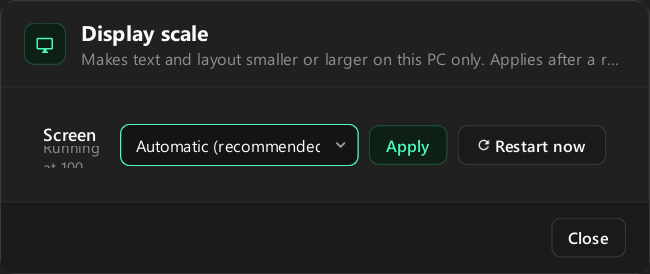
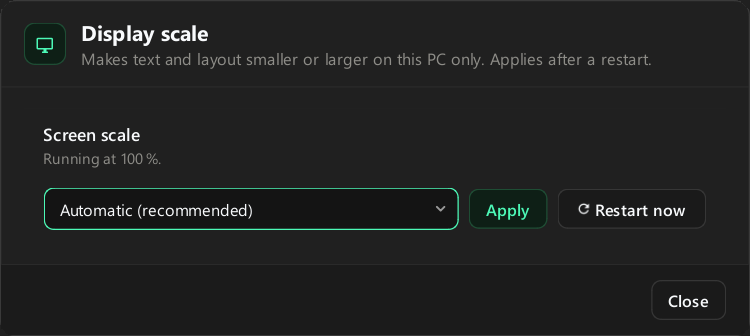
ui-overhaul F-R: merge-readiness report, ARN fixer switch in Settings, display scale clipping fix

diff --git a/ui/dialogs/unified_settings_dialog.py b/ui/dialogs/unified_settings_dialog.py
@@ -97,7 +97,8 @@ _STATE_COMBOS = {"theme": "theme_combo", "window_mode": "window_mode_combo", "ma
 _STATE_STEPPERS = {"reveal_count": "reveal_count_spin", "clipboard": "clipboard_spin",
                    "sca_max_uses": "sca_max_uses_spin"}
 _STATE_CHECKS = {"quick_copy": "quick_copy_check", "run_in_bg": "run_in_bg_check",
-                 "autostart": "autostart_check", "sca": "sca_check", "show_hide": "show_hide_check",
+                 "autostart": "autostart_check", "arn_autofix": "arn_autofix_check",
+                 "sca": "sca_check", "show_hide": "show_hide_check",
                  "scc_enabled": "scc_check", "vsdc_enabled": "vsdc_check", "vsdc_x_enabled": "vsdc_x_check",
                  "vsdc247_enabled": "vsdc247_check", "vsdc_hud_enabled": "vsdc_hud_check",
                  "sgt_record_pages": "sgt_record_check", "sdis_record": "sdis_record_check"}
@@ -445,6 +446,12 @@ class UnifiedSettingsDialog(QDialog):
         startup.add_row(SettingRow("Launch at Windows startup",
                                    "Automatically starts Project Sera in the background when Windows boots.",
                                    self.autostart_check))
+        self.arn_autofix_check = Switch()
+        self.arn_autofix_check.setAccessibleName("Run the ARN fixer automatically")
+        startup.add_row(SettingRow("Run the ARN fixer automatically",
+                                   "Fixes failed ARN-only GST rows from the corpus in the background, on the admin PC "
+                                   "only. Applies from the next start of Sera.",
+                                   self.arn_autofix_check))
 
         assist = Card("Clipboard assist (SCA)")
         self.sca_check = Switch()
@@ -477,7 +484,8 @@ class UnifiedSettingsDialog(QDialog):
             combo.currentIndexChanged.connect(self._on_control_changed)
         for stepper in (self.reveal_count_spin, self.clipboard_spin, self.sca_max_uses_spin):
             stepper.valueChanged.connect(self._on_control_changed)
-        for switch in (self.quick_copy_check, self.run_in_bg_check, self.autostart_check, self.sca_check):
+        for switch in (self.quick_copy_check, self.run_in_bg_check, self.autostart_check, self.arn_autofix_check,
+                       self.sca_check):
             switch.toggled.connect(self._on_control_changed)
         self.mask_mode_combo.currentIndexChanged.connect(self._update_mask_preview)
         self.reveal_count_spin.valueChanged.connect(self._update_mask_preview)
@@ -980,6 +988,7 @@ class UnifiedSettingsDialog(QDialog):
             state["quick_copy"] = self.quick_copy_check.isChecked()
             state["run_in_bg"] = self.run_in_bg_check.isChecked()
             state["autostart"] = self.autostart_check.isChecked()
+            state["arn_autofix"] = self.arn_autofix_check.isChecked()
             state["sca"] = self.sca_check.isChecked()
             state["sca_mode"] = self.sca_mode_combo.currentData()
             state["sca_max_uses"] = self.sca_max_uses_spin.value()
@@ -1164,6 +1173,7 @@ class UnifiedSettingsDialog(QDialog):
             self.quick_copy_check.setChecked(g("quick_copy_enabled", "0") == "1")
             self.run_in_bg_check.setChecked(g("run_in_background", "1") == "1")
             self.sca_check.setChecked(g("sca_enabled", "1") == "1")
+            self.arn_autofix_check.setChecked(g("arn_autofix_enabled", "1") != "0")
             try:
                 self.sca_max_uses_spin.setValue(max(1, min(int(g("sca_max_uses", "1")), 20)))
             except (TypeError, ValueError):
@@ -1230,6 +1240,7 @@ class UnifiedSettingsDialog(QDialog):
                 bulk_settings["quick_copy_enabled"]         = b(self.quick_copy_check)
                 bulk_settings["run_in_background"]          = b(self.run_in_bg_check)
                 bulk_settings["sca_enabled"]                = b(self.sca_check)
+                bulk_settings["arn_autofix_enabled"]        = b(self.arn_autofix_check)
                 bulk_settings["sca_action_mode"]            = self.sca_mode_combo.currentData() or "autofill"
                 bulk_settings["sca_max_uses"]               = str(self.sca_max_uses_spin.value())
 

diff --git a/tests/test_ui_lock_settings.py b/tests/test_ui_lock_settings.py
@@ -95,6 +95,19 @@ def test_fixed_sequence_of_inputs_writes_exactly_the_golden_settings(env):
     assert not dlg._btn_save.isEnabled()                               # saved = no longer dirty
 
 
+def test_arn_fixer_switch_reads_and_writes_its_key(env):
+    """main's ARN fixer switch (legacy settings_dialog.py) lives on General > Start-up here."""
+    db, ids, dlg, written, outside = env
+    assert dlg.arn_autofix_check.isChecked()                       # default on, as core/sdis/arn_autofix.py
+    dlg.arn_autofix_check.setChecked(False)
+    assert dlg._btn_save.isEnabled()
+    dlg._on_save_settings()
+    assert db.get_setting("arn_autofix_enabled") == "0"
+    dlg.arn_autofix_check.setChecked(True)
+    dlg._load_settings(force=True)
+    assert not dlg.arn_autofix_check.isChecked()
+
+
 def test_save_also_tells_the_extension_and_the_startup_entry(env):
     db, ids, dlg, written, outside = env
     _apply_fixed_inputs(dlg)

diff --git a/ui/utils/dynamic_form_widgets.py b/ui/utils/dynamic_form_widgets.py
@@ -6,6 +6,7 @@ Shared UI pieces for rendering dynamic fields at runtime.
 
 from PySide6.QtCore import QDate, QRegularExpression, Qt
 from PySide6.QtGui import QRegularExpressionValidator
+from ui.utils.tokens import TOKENS
 from PySide6.QtWidgets import (
     QComboBox,
     QDateEdit,
@@ -51,7 +52,8 @@ def make_input_widget(field: dict, value: str = "", mask_password: bool = True):
         widget = QLineEdit(value or "(Auto-Generated)")
         widget.setReadOnly(True)
         widget.setFocusPolicy(Qt.NoFocus)
-        widget.setStyleSheet("background-color: #EFEFEF; color: #2E9B5F; font-weight: 700; border: 1px solid #CCCCCC;")
+        widget.setStyleSheet(f"background-color: {TOKENS['panel']}; color: {TOKENS['mint']}; font-weight: 700;"
+                             f" border: 1px solid {TOKENS['line2']};")
         return widget
 
     if field_type == "password":

diff --git a/ui/dialogs/display_scale_dialog.py b/ui/dialogs/display_scale_dialog.py
@@ -79,13 +79,15 @@ class DisplayScaleDialog(QDialog):
     def __init__(self, parent=None):
         super().__init__(parent)
         self.setWindowTitle("Display scale")
-        self.setMinimumWidth(520)
+        self.setMinimumWidth(600)
 
         layout = QVBoxLayout(self)
         layout.setContentsMargins(0, 0, 0, 0)
 
         self.frame = DialogFrame("Display scale", _HINT, self, icon="mdi.monitor")
         self.control = DisplayScaleControl()
+        # Stacked: beside three controls the "Running at ..." line had no room (clipped at 520 px).
+        self.control.set_compact(True)
         self.frame.add_widget(self.control)
         close = self.frame.add_action("Close", variant="secondary")
         close.clicked.connect(self.accept)

diff --git a/Mockups/MERGE-READINESS.md b/Mockups/MERGE-READINESS.md
@@ -1,0 +1,135 @@
+# UI overhaul — merge-readiness report (F-R)
+
+Branch `ui-overhaul` (worktree `../APP-ui`) against `main`, reviewed 2026-10-12 by claude-opus-5-5.
+**Merging is the owner's call.** This report only says what a merge needs. Nothing was merged, rebased or pushed.
+
+## Verdict
+
+**Ready to merge after two manual conflict fixes (below) and the human checks you choose to run first.**
+Every screen in the plan is built on the kit. The behaviour-lock tests (R1–R9) pass. No colour literals are left in
+any screen file. Nothing outside the UI changed, apart from the dispatcher tool noted below.
+
+## 1. What the branch changes
+
+77 files outside `Mockups/` (+18,052 / −7,317 lines). In detail:
+
+| Area | Files |
+| :--- | :--- |
+| New kit + tokens | `ui/components/kit.py`, `ui/utils/tokens.py`, `ui/utils/responsive.py` (WidthAware) |
+| Rebuilt screens | search, client detail, admin (Manage Clients), tracker dump windows; settings hub; audit log; Sera Sync; MCL / service managers; CSV import, first run, office recovery, rejoin, change password, update, loading, SCA diagnostics, LTT rules, display scale |
+| Shell | `ui/shell/sidebar.py`, `slide_panel.py`, `app_shell.py` (width from token) |
+| Removed | `ui/dialogs/settings_dialog.py` (legacy dialog that no code opens; see conflict 1) |
+| `main.py` | `QMessageBox` → `kit.MessageBox` (same buttons and results), the SGT demotion prompt via `MessageBox.choose` (Esc = keep), dropped the dead `action_manage_staff` connection |
+| Tests | About 25 new UI test files (kit, lock R1–R9, screens, rules), 12 existing files retargeted (`MessageBox`, roles instead of cell widgets) |
+| Tools | `tools/ui_gallery.py` (new), `tools/ui_snapshots.py` (font dir, no legacy dialog) |
+
+**Out-of-scope check (rule 7):** `version.json`, installers, the sync protocol, SGT/VSDC/SCA capture code, the browser
+extensions, `sgt_lab_dialog.py`, `sdis_dialog.py` and `sdis_containers_dialog.py` are **unchanged**.
+One file outside the UI changed: `tools/sgt_overhaul.py` (+13 lines: a "Models" sheet in the tracker workbook and
+extra network-error wording for the agent runner). It came from the fleet dispatcher, not from a screen WP. It is
+harmless, but you may prefer to commit it to `main` separately.
+
+## 2. Conflicts with `main` (3 commits ahead since the branch point `42f9998`)
+
+`main` has `cf1f943` (tracker complete-lock), `caf4db3` (ARN fixer switch) and `7c670d4` (tracker latest period).
+Only two files overlap:
+
+1. **`ui/dialogs/settings_dialog.py` — modify/delete.** `caf4db3` added the "Run the ARN fixer automatically"
+   checkbox (`arn_autofix_enabled`) to the legacy dialog. That dialog is never opened on `main` either: only
+   `UnifiedSettingsDialog` is opened, so the switch is unreachable there today. **F-R added the switch to this branch:**
+   Settings → General → Start-up card, kit `Switch` `arn_autofix_check`, same key, same default (on), staged and
+   saved like the other General settings. A test and the golden settings file cover it.
+   **Resolution:** keep the deletion (`git rm ui/dialogs/settings_dialog.py`).
+2. **`ui/windows/tracker_dump_window.py` — one hunk, textual.** `7c670d4` changes how the Filings & History cell
+   gets its text (it shows the latest period, with "Assessment Year" shortened to "AY"). The branch changed the line
+   above it (`_get_item(..., color="#58A6FF")` → `self._table_item(row_idx, self.COL_PERIOD, K["blue_tx"])`).
+   **Resolution:** keep the branch's `hist_item = self._table_item(...)` line and take main's two new lines:
+   ```python
+   latest = str(r.get("latest_period") or "").strip()
+   hist_item.setText(re.sub(r"\bAssessment Year\b", "AY", latest) if latest and latest != "N/A" else _filings_short(period_sum))
+   hist_item.setToolTip(f"Latest period captured: {latest}\n{period_sum}" if latest else period_sum)
+   ```
+   (`re` is already imported.) After merging, run `tests/test_tracker_arn_kept.py`, `test_tracker_complete_lock.py`,
+   `test_ui_lock_tracker.py` and `test_ui_tracker_kit.py`.
+
+All other `main` changes (`core/sdis`, `core/sgt`, `sera_db`, their tests) do not touch files this branch changed.
+
+## 3. W8-R sweep
+
+**Hard-coded colours.** `tests/test_ui_overhaul_rules.py` (76 cases) forbids literal `setStyleSheet`, hex and
+`QMessageBox` in every screen file and `main.py`. A grep of `ui/` finds hex only in:
+- `ui/utils/tokens.py` and `theme.py` (the token source and the stylesheet built from it);
+- data palettes: the user's cell-format colours in `search_window.py`, and the tracker status and portal colours in
+  `tracker_dump_window.py` (stored or shown data, allowed by the rules test);
+- `kit.py`: only the `rgba()` helper for disabled states;
+- out of scope: `sgt_lab_dialog.py`, `sdis_dialog.py`, `sdis_containers_dialog.py`, `vsdc_hud_pill.py` (capture HUD);
+- **left over (not fixed):** `ui/components/toast.py` (the app's `SeraAlert` toast still uses the old Material
+  greens and reds; K-3 left swapping `AppShell.alert` for `kit.Toast` to the shell work, and no WP did it), and
+  `ui/utils/tag_widget.py` (status tags with old colours; nothing imports it, so it is dead code).
+- **fixed in F-R:** `ui/utils/dynamic_form_widgets.py` drew the read-only ID field as a light-grey box inside the
+  dark form. It now uses the panel, mint and line tokens.
+
+**Screens against the recipe.** S-R compared every screen with `index.html` and ticked the README "where every
+control went" rows. F-2 re-rendered the flat set in `Mockups/built/`. F-R spot-checked All Clients, Tracker Dump,
+Manage Clients, Settings General and Display scale. F-R fixed the one defect F-2 found: the Display scale dialog
+clipped its "Running at …" line. The row is now stacked and the dialog is 600 px wide; the re-rendered images at
+100 % and 125 % show no clipping.
+
+**125 % / 150 % scaling.** Offscreen renders at Sera scale 1.25 exist for every screen (subfolders of
+`Mockups/built/`). Real Windows 125 % / 150 % scaling still needs a human (section 9, check 7; tracker checks 2, 33).
+
+## 4. Tests
+
+Full suite on this branch with the live plugin, 2026-10-12: **3643 tests: 3505 pass, 137 fail, 1 skipped.**
+None of the 137 failures comes from a file this branch changed:
+
+- **132 database-fixture failures.** In `sync_rejoin`, `sync_golive`, `sync_restore`, `sync_shadow_start`,
+  `clipboard_assist`, `raw_payload_db_and_srpf`, `startup_speed::TestSearchGridReuse` (5), `sync_apply`,
+  `sync_capture`, `sync_hotfix`, `sync_maintenance`, `sync_tables`, `audit_log_v2`, `cell_formatting`, `id_field`,
+  `dual_pk`, `undo_redo_formatting` and `syncthing_restore`, the fixtures fail while seeding the throwaway
+  database. Either `add_client` refuses a client because "Internal Primary Key 'PAN' / 'NAME OF COMPANY' is
+  mandatory", or the default services have no `EPFO`. The branch does not change `sera_db/`, `database.py` or
+  `core/`. Earlier S-package notes (section 11) already list these as known.
+- **1 SDIS failure:** `test_sdis_tables::test_command_line_prints_no_values` (`core/sdis`, out of scope, untouched).
+- **4 UI tests fail only when run in the full suite and pass on their own** (each file rerun separately):
+  `test_ui_kit` checkbox and grid paint, `test_ui_kit_frames` slide panel, and `test_ui_search_selection_bar` compact
+  width. The kit elision tests leak state in the same way when run after other UI files. Section 11 lists this as
+  "kit elision order leaks (pass alone)".
+
+The checks for this WP pass: `test_ui_lock_settings` (with the new ARN fixer switch and its golden file),
+`test_ui_lock_display`, `test_ui_overhaul_rules`, `test_memory_tuning`, and the startup-speed tests other than the 5
+fixture failures. **After merging, compare the failure list against this one.** Any failure not listed here is new.
+
+## 5. Owner decisions still open
+
+1. **Passwords in the All Clients grid show in clear**, as on `main`. The new Columns ▾ menu makes it easier to show
+   those columns. Should the grid follow Password Masking Mode? (S-R raised this; not changed.)
+2. **`SeraAlert` toast** keeps its old colours. Swap it for `kit.Toast` (same API) in a follow-up?
+3. **Subfolder goldens** (`Mockups/built/{search,settings,dialogs,…}/`) are from the S-package runs, not re-rendered
+   at HEAD. They are reference images, not test inputs, so no test depends on them.
+4. **`tools/sgt_overhaul.py`** change on this branch: keep it here or move it to `main`.
+5. Behaviour changes already recorded in the decisions file: Force update "Exit application" now asks first;
+   Delete in All Clients is disabled with no selection; the legacy settings dialog is removed; "Manage Staff Users"
+   is gone from the sidebar (Sera Sync is still reachable).
+
+## 6. Human checks before or after merging
+
+33 checks are in `Mockups/overhaul/ui-overhaul-checks.csv`. All are "Not run". Check 32 (Display scale clipping)
+was fixed offscreen by F-R. The ones that matter most for a merge:
+
+- **2 / 7 / 33:** every screen and dialog on a real 1366×768 laptop at Windows 125 % and 150 %.
+- **3:** real keyboard: Ctrl+= / − / 0, Alt+n, Alt+Ctrl+n, Ctrl+B, F5, Tab order.
+- **1 / 18:** All Clients actions (edit, archive, delete, services) act on the clicked client.
+- **20 / 21:** the clipboard wipe after 30 s, and Alt+n autofill in a real browser.
+- **27:** Sera Sync between two real PCs.
+
+## 7. How to merge (owner)
+
+```
+git checkout main
+git merge --no-ff ui-overhaul
+git rm ui/dialogs/settings_dialog.py          # conflict 1
+# edit ui/windows/tracker_dump_window.py      # conflict 2, as in section 2
+git commit
+```
+Then run the full suite with the live plugin (CLAUDE.md) and compare with section 4.

diff --git a/Mockups/overhaul/ui-overhaul-report.md b/Mockups/overhaul/ui-overhaul-report.md
@@ -1,16 +1,16 @@
-# UI overhaul — report (2026-10-12 01:46)
+# UI overhaul — report (2026-10-12 12:13)
 
 Deadline: 2026-10-12T23:00:00+05:30
 
 | Status | WPs |
 | :--- | ---: |
-| Not started | 2 |
+| Not started | 0 |
 | In progress | 0 |
-| Retry | 0 |
-| Done | 34 |
+| Retry | 1 |
+| Done | 35 |
 | Blocked | 0 |
 
-Runs: 43   output tokens: 1975266   API-equivalent cost: $150.58
+Runs: 45   output tokens: 2032990   API-equivalent cost: $155.76
 
 | WP | Status | Model | Commit | What | Notes |
 | :--- | :--- | :--- | :--- | :--- | :--- |
@@ -48,8 +48,10 @@ Runs: 43   output tokens: 1975266   API-equivalent cost: $150.58
 | S-14 | Done | haiku | fb1490a | Screens: Remaining not-drawn dialogs by recipe: Container inspector, Create client from capture, ... | S-14 dialogs on the kit; 9 new tests; 137 full-suite failures reproduce on HEAD; handed-off QMessageBox sites in hand-off note |
 | S-R | Done | opus | fbcb288 | Review phase S (screens) | Phase S reviewed: controls all kept; ~125 QMessageBox -> kit.MessageBox (owner Q3); Settings literal QSS dropped; tracker autofill emerald; rules test 76; suite |
 | F-1 | Done | mechanical | 91f3522 | Finish: Rewrite docs/Sera_UI.md from the kit docstring and tokens; update Mockups/README.md and ... | Rewrote docs/Sera_UI.md, updated statuses to built in README and BUILD-PLAN, removed legacy settings_dialog.py |
-| F-2 | Not started | mechanical |  | Finish: Real screenshots of every screen into Mockups/built/ (fictional data). |  |
-| F-R | Not started | opus |  | Review phase F (finish) |  |
+| F-2 | Done | mechanical | 507b259 | Finish: Real screenshots of every screen into Mockups/built/ (fictional data). | Screenshots of every screen regenerated at HEAD with fictional data; display scale dialog added; clipped sub-label recorded for R-3 |
+| F-R | Retry | opus |  | Review phase F (finish) | attempt 1: no finish. The full suite is still running in the background (about 220 of 3643 tests done), and I'll pick up when it finishes. So far:
+
+- **Merge co |
 
 ## Decisions taken for you
 
@@ -123,6 +125,10 @@ Runs: 43   output tokens: 1975266   API-equivalent cost: $150.58
 - **S-R** Tracker Dump row autofill button: keep main's solid red or follow the mockup? → Emerald kit primary (no colour override); SMTI/MECP icon mint (index.html draws it as ibtn pri (emerald); rule 4 says red means danger only; main's red was a fixed colour, not a per-service one)
 - **S-R** Settings dialog still set a literal hex stylesheet (_apply_global_style) - keep or drop? → Dropped it and its palette constants (Rule 11; offscreen before/after renders of all 12 pages differ only in scrollbar width (app theme now) and the scale combo's 160 px min-width)
 - **F-1** Should settings_dialog.py be removed? → Remove settings_dialog.py and clean up references (Unused legacy tabbed dialog superseded by UnifiedSettingsDialog; verified nothing in live app opens it)
+- **F-2** Which screens get a PNG in Mockups/built/? → Regenerate the harness flat set (01-04, settings_*, dlg_*) and the shell goldens at 1366x768, 1024x700 and 1366x768 @125 %; add dlg_display_scale; keep the S-package subfolder goldens unchanged (The harness writes the flat set and the shell sizes with fictional seed data; the subfolder goldens cannot be reproduced by the harness and were reviewed in S-R)
+- **F-2** Capture the prompts that have no dialog class (by-IP, Map datapoints, Shadow start)? → Not captured; they are kit MessageBox prompts (They are built inline by the screen code; the kit MessageBox goldens (message_warning, confirm_remove) show the look)
+- **F-R** main added the arn_autofix_enabled switch only to ui/dialogs/settings_dialog.py, which this branch deletes (F-1). Where does it go? → Settings > General > Start-up card, kit Switch arn_autofix_check, same key and default (on); golden settings updated (Same-behaviour rule: a control on main may move, not disappear; the legacy dialog was never opened on main either, so the merge keeps the deletion and the switch becomes reachable)
+- **F-R** Fix or only report small defects found in the merge review? → Fix the cheap ones (Display scale clipping, light-grey ID field in the client form); report the rest (SeraAlert toast colours, tag_widget, conflicts with main) (Each fix is a few lines with a test or render; bigger items change shared behaviour and are the owner's call)
 
 ## Checks waiting for you
 
@@ -157,3 +163,5 @@ Runs: 43   output tokens: 1975266   API-equivalent cost: $150.58
 - #29 (S-13) On a throwaway office: change the master password and unlock via Office recovery; confirm the password fields stay masked and the eye toggle works — Not run
 - #30 (S-14) Review the S-14 dialogs at 125 percent on a real screen (SCA diagnostics, LTT rules, McL mapping, payload inspector, add client from capture, add workstation pairing window, add/remove PC by IP prompts, message and confirm boxes); check the goldens in Mockups/built/dialogs/ match — Not run
 - #31 (S-14) Payload inspector table headers elide at 1024x700 (Period and Submission status are cut); decide whether the columns need priority or a wider minimum — Not run
+- #32 (F-2) Display scale dialog: the Running at 100 % sub-label under Screen is clipped at 100 % and 125 % (Mockups/built/dlg_display_scale*.png), and the combo text is elided at 125 %. Fix in the R-3 DisplayScaleControl SettingRow; not changed in F-2 (capture only). — Not run
+- #33 (F-2) Compare Mockups/built/ screen by screen with Mockups/fleet/index.html on a real 125 % display; the screenshots are offscreen renders with fictional data. — Not run

diff --git a/Mockups/IMPLEMENTATION.md b/Mockups/IMPLEMENTATION.md
@@ -786,3 +786,9 @@ files, tests, decisions taken, what the next WP must know.`
   Defect, not fixed (capture only): Display scale dialog clips the "Running at 100 %" sub-label at 100 % and 125 %, and elides the combo text at 125 % (check 32).
   Tests: `tests/test_ui_overhaul_rules.py` 76 pass; no code changed. Pytest exits 1 at temp-folder cleanup (WinError 5 on `pytest-current`), after the tests pass. The harness exits 139 at `os._exit` after writing PNGs (known, harmless).
   For F-R: check 33 (real 125 % display); decide whether to re-render the subfolder goldens at HEAD.
+- **F-R** (2026-10-12, claude-opus-5-5): Merge-readiness report `Mockups/MERGE-READINESS.md` (W8-R). Verdict: ready after two conflict fixes, which the report spells out
+  (`settings_dialog.py` modify/delete → keep the deletion; `tracker_dump_window.py` one hunk → keep the branch's `_table_item` line and take main's latest-period lines). Merging is the owner's call; nothing was merged.
+  Fixes: main's "Run the ARN fixer automatically" switch (`arn_autofix_enabled`) moved to Settings → General → Start-up (`arn_autofix_check`, kit Switch, default on; lock test + golden updated);
+  the Display scale dialog no longer clips "Running at …" (stacked row, 600 px wide, re-rendered at 100 % / 125 %); `dynamic_form_widgets.py` read-only ID field now uses tokens.
+  Full suite: 3505 pass / 137 fail / 1 skip. The failures are all outside the branch: 132 DB-fixture failures (PK/EPFO seed), 1 SDIS, and 4 UI order leaks that pass alone. Open owner decisions are in report §5
+  (masking of password columns in the grid, `SeraAlert` toast colours, `tools/sgt_overhaul.py` placement).
